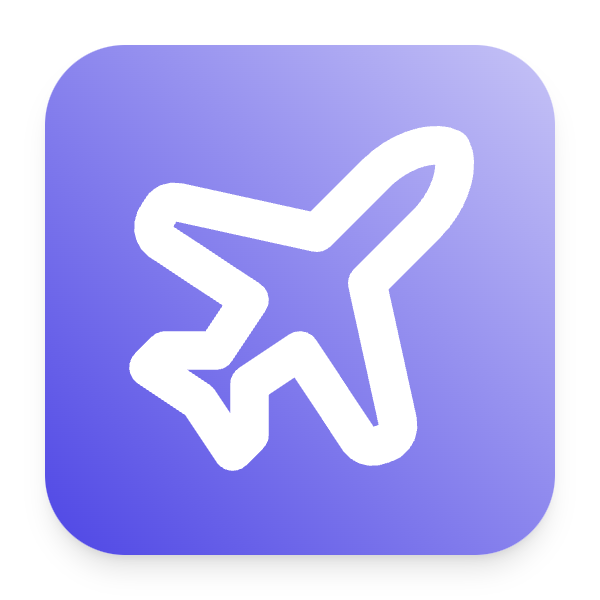
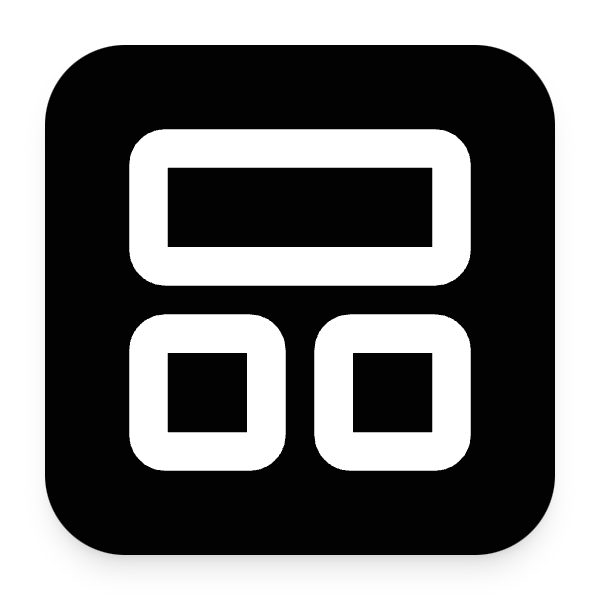
mvp

diff --git a/app/page.js b/app/page.js
@@ -38,15 +38,15 @@ export default function Home() {
         </div>
         <div className="mx-auto max-w-2xl py-32 sm:py-48 lg:py-40">
           <div className="text-center">
-            <h1 className="text-4xl font-bold tracking-tight text-gray-900 sm:text-6xl">
-              Plan your travel for Japan
+            <h1 className="text-4xl font-bold tracking-tight text-black sm:text-6xl">
+              Template for your SAAS business
             </h1>
-            <p className="mt-6 text-lg leading-8 text-gray-600">Flyosophy makes global travel effortless. Find your perfect trip with personalized itineraries and seamless booking options, all in one place.
+            <p className="mt-6 text-lg leading-8 text-gray-600">Lorem ipsum dolor sit amet, consectetur adipiscing elit. Aliquam et tellus lacus. Morbi quis lacus id odio elementum interdum vel.
             </p>
             <div className="mt-10 flex items-center justify-center gap-x-6">
               <a
                 href="#"
-                className="rounded-md bg-indigo-600 px-3.5 py-2.5 text-sm font-semibold text-white shadow-sm hover:bg-indigo-500 focus-visible:outline focus-visible:outline-2 focus-visible:outline-offset-2 focus-visible:outline-indigo-600"
+                className="rounded-md bg-black px-3.5 py-2.5 text-sm font-semibold text-white shadow-sm hover:bg-black/75 focus-visible:outline focus-visible:outline-2 focus-visible:outline-offset-2 focus-visible:outline-indigo-600"
               >
                 Get started
               </a>
@@ -61,8 +61,8 @@ export default function Home() {
           <div className="mx-auto grid max-w-2xl grid-cols-1 gap-x-8 gap-y-16 sm:gap-y-20 lg:mx-0 lg:max-w-none lg:grid-cols-2">
             <div className="lg:pr-8 lg:pt-4">
               <div className="lg:max-w-lg">
-                <h2 className="text-base font-semibold leading-7 text-indigo-600">Deploy faster</h2>
-                <p className="mt-2 text-3xl font-bold tracking-tight text-gray-900 sm:text-4xl">A better workflow</p>
+                <h2 className="text-base font-semibold leading-7 text-black">Deploy faster</h2>
+                <p className="mt-2 text-3xl font-bold tracking-tight text-black sm:text-4xl">A better workflow</p>
                 <p className="mt-6 text-lg leading-8 text-gray-600">
                   Lorem ipsum, dolor sit amet consectetur adipisicing elit. Maiores impedit perferendis suscipit eaque,
                   iste dolor cupiditate blanditiis ratione.
@@ -70,7 +70,7 @@ export default function Home() {
                 <dl className="mt-10 max-w-xl space-y-8 text-base leading-7 text-gray-600 lg:max-w-none">
                   {features.map((feature) => (
                     <div key={feature.name} className="relative pl-9">
-                      <dt className="inline font-semibold text-gray-900">
+                      <dt className="inline font-semibold text-black">
                         {/* <feature.icon className="absolute left-1 top-1 h-5 w-5 text-indigo-600" aria-hidden="true" /> */}
                         {feature.name}
                       </dt>{' '}
@@ -98,7 +98,7 @@ export default function Home() {
             {stats.map((stat) => (
               <div key={stat.id} className="mx-auto flex max-w-xs flex-col gap-y-4">
                 <dt className="text-base leading-7 text-gray-600">{stat.name}</dt>
-                <dd className="order-first text-3xl font-semibold tracking-tight text-gray-900 sm:text-5xl">
+                <dd className="order-first text-3xl font-semibold tracking-tight text-black sm:text-5xl">
                   {stat.value}
                 </dd>
               </div>

diff --git a/components/Footer/index.js b/components/Footer/index.js
@@ -14,30 +14,30 @@ export const Footer = () => {
                     <div>
                         <p className="font-medium mb-3 text-gray-900">Product</p>
                         <ul className="flex flex-col items-center md:items-start gap-2">
-                            <li className="text-slate-500 hover:text-indigo-500"><Link href="/">Advertise</Link></li>
+                            <li className="text-slate-500 hover:text-black"><Link href="/">Advertise</Link></li>
                         </ul>
                     </div>
                     <div>
                         <p className="font-medium mb-3 text-gray-900">Ressource</p>
                         <ul className="flex flex-col items-center md:items-start gap-2">
-                        <li className="text-slate-500 hover:text-indigo-500"><Link href="/">List your business</Link></li>
-                            <li className="text-slate-500 hover:text-indigo-500"><Link href="/">Support & FAQ</Link></li>
+                        <li className="text-slate-500 hover:text-black"><Link href="/">List your business</Link></li>
+                            <li className="text-slate-500 hover:text-black"><Link href="/">Support & FAQ</Link></li>
                         </ul>
                     </div>
                     <div>
                         <p className="font-medium mb-3 text-gray-900">Infos</p>
                         <ul className="flex flex-col items-center md:items-start gap-2">
-                            <li className="text-slate-500 hover:text-indigo-500"><Link href="/">About us</Link></li>
-                            <li className="text-slate-500 hover:text-indigo-500"><Link href="/">Feedback</Link></li>
-                            <li className="text-slate-500 hover:text-indigo-500"><Link href="/">Terms & Conditions</Link></li>
-                            <li className="text-slate-500 hover:text-indigo-500"><Link href="/">Contact</Link></li>
+                            <li className="text-slate-500 hover:text-black"><Link href="/">About us</Link></li>
+                            <li className="text-slate-500 hover:text-black"><Link href="/">Feedback</Link></li>
+                            <li className="text-slate-500 hover:text-black"><Link href="/">Terms & Conditions</Link></li>
+                            <li className="text-slate-500 hover:text-black"><Link href="/">Contact</Link></li>
                         </ul>
                     </div>
                     <div>
                         <p className="font-medium mb-3 text-gray-900">Social</p>
                         <ul className="flex flex-col items-center md:items-start gap-2">
-                            <li className="text-slate-500 hover:text-indigo-500"><Link href="/">Discord</Link></li>
-                            <li className="text-slate-500 hover:text-indigo-500"><Link href="/">Twitter</Link></li>
+                            <li className="text-slate-500 hover:text-black"><Link href="/">Discord</Link></li>
+                            <li className="text-slate-500 hover:text-black"><Link href="/">Twitter</Link></li>
                         </ul>
                     </div>
                 </div>

diff --git a/components/Cookies/Cookies.js b/components/Cookies/Cookies.js
@@ -34,8 +34,8 @@ export default function Cookies() {
                     </div>
                     <div className="border-b-2 border-slate-200 w-1/2 m-auto"></div>
                     <div className="flex flex-row gap-4 justify-center my-5">
-                        <button onClick={handleDecline} className="p-2 cursor-pointer bg-indigo-100 rounded-md px-3.5 py-2.5 text-sm font-semibold text-indigo-600">decline</button>
-                        <button onClick={handleAccept} className="p-2 cursor-pointer bg-indigo-600 rounded-md px-3.5 py-2.5 text-sm font-semibold text-white hover:bg-indigo-500">Agree</button>
+                        <button onClick={handleDecline} className="p-2 cursor-pointer bg-indigo-100 rounded-md px-3.5 py-2.5 text-sm font-semibold text-black">decline</button>
+                        <button onClick={handleAccept} className="p-2 cursor-pointer bg-black rounded-md px-3.5 py-2.5 text-sm font-semibold text-white hover:bg-black/75">Agree</button>
                     </div>
                 </div>
             </div>

diff --git a/components/AuthButton/Sign_in.js b/components/AuthButton/Sign_in.js
@@ -18,7 +18,7 @@ export async function SignIn() {
         await signIn("google")
       }}
     >
-      <button className="rounded-full border border-indigo-600 bg-indigo-600 p-1.5 px-4 text-sm shadow-sm font-semibold text-white transition-all hover:bg-white hover:text-indigo-600">Sign in</button>
+      <button className="rounded-full border border-black bg-black p-1.5 px-4 text-sm shadow-sm font-semibold text-white transition-all hover:bg-white hover:text-black">Sign in</button>
     </form>
   )
 }

diff --git a/components/Navbar/index.js b/components/Navbar/index.js
@@ -19,7 +19,7 @@ export const Navbar = async() => {
                                 height={32}
                                 quality={100}
                             ></Image>
-                            <p className="font-medium ml-1 text-gray-900">Flyosophy</p>
+                            <p className="font-medium ml-1 text-black">Template</p>
                         </Link>
                         <div>
                             {

diff --git a/components/Theme/Theme-provides.js b/components/Theme/Theme-provides.js
@@ -1,0 +1,10 @@
+"use client"
+
+import * as React from "react"
+import { ThemeProvider as NextThemesProvider } from "next-themes"
+import { ThemeProviderProps } from "next-themes/dist/types"
+
+export function ThemeProvider({ children, ...props }) {
+    
+  return <NextThemesProvider {...props}>{children}</NextThemesProvider>
+}
